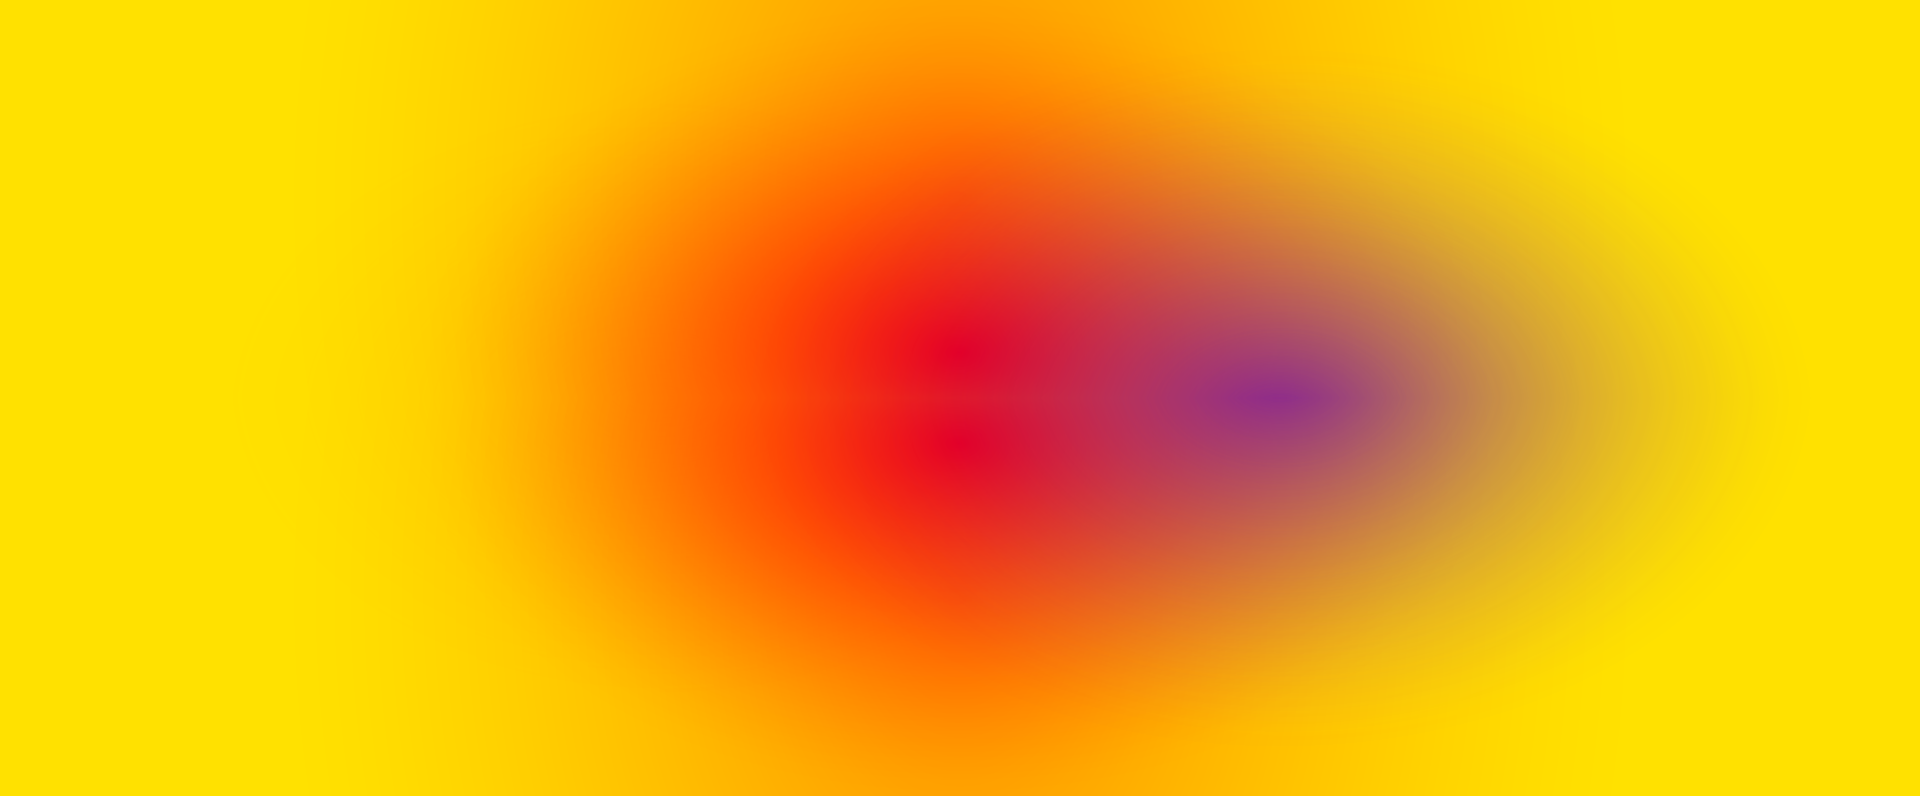
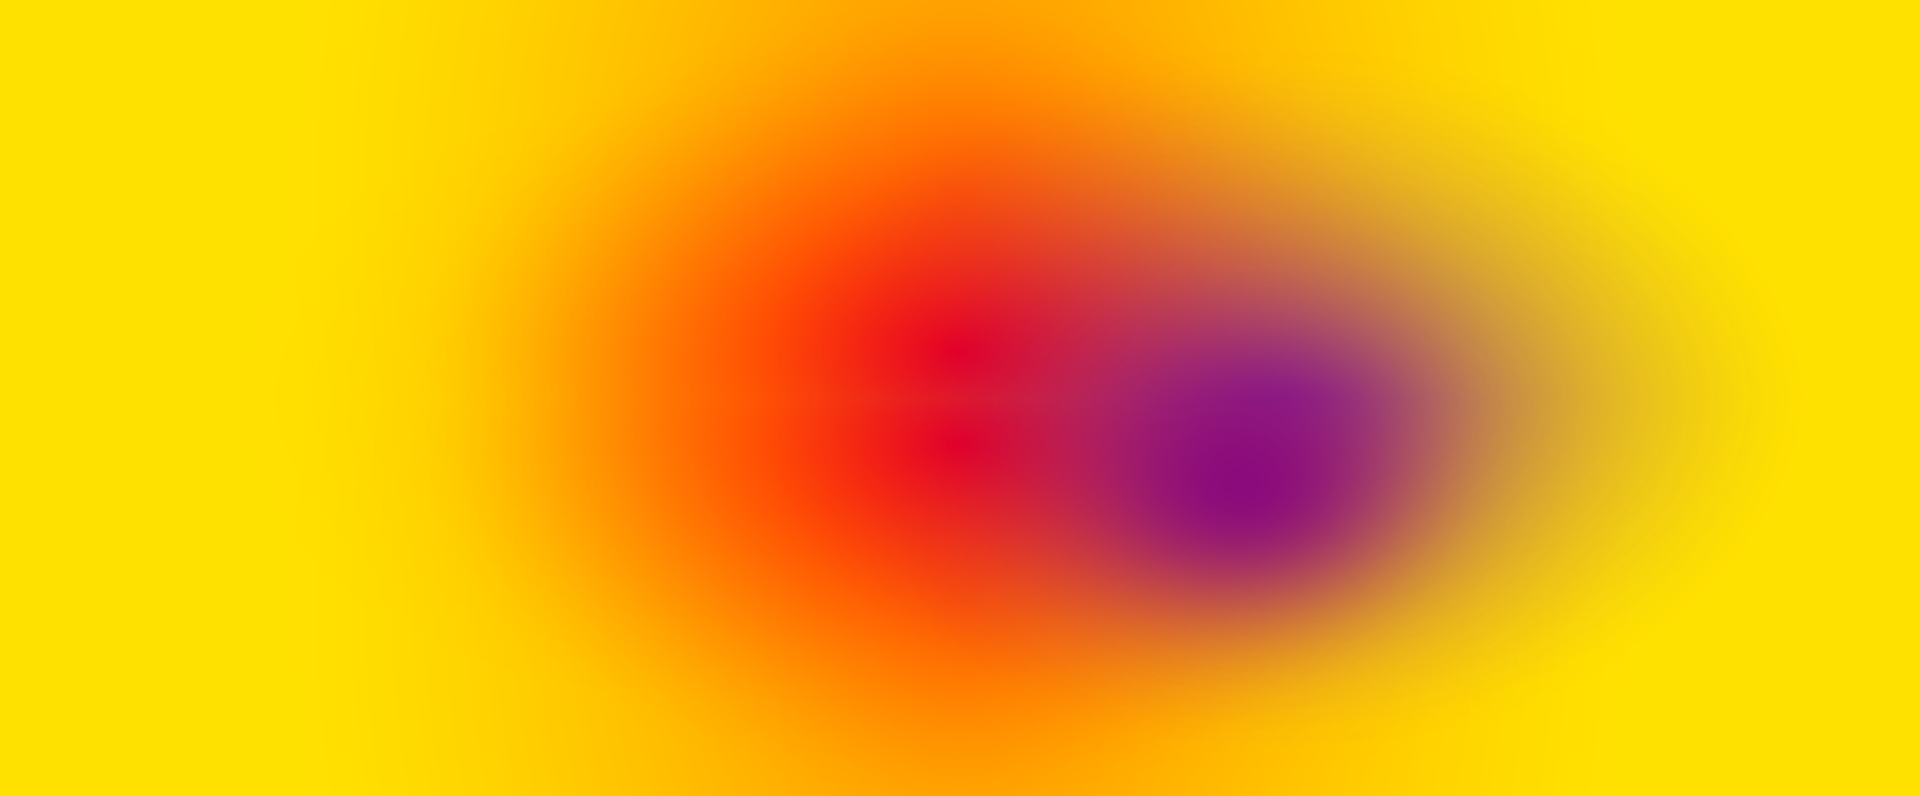
Some style  improvements

Changed region(s): [[0.5625, 0.4824, 0.7812, 0.8141]]

diff --git a/src/BCRM/WebBundle/Resources/public/css/styles.scss b/src/BCRM/WebBundle/Resources/public/css/styles.scss
@@ -428,11 +428,12 @@ blockquote {
   height: 50px;
   border: none;
   position: relative;
-  background-image: -moz-radial-gradient(rgb(255, 136, 0) 1%, rgb(255, 224, 0) 99%);
+  background-color: $link;
   background-image: -webkit-gradient(radial, color-stop(0.01, rgb(255, 136, 0)), color-stop(0.99, rgb(255, 224, 0)));
-  background-image: -webkit-radial-gradient(rgb(255, 136, 0) 1%, rgb(255, 224, 0) 99%);
-  background-image: -ms-radial-gradient(rgb(255, 136, 0) 1%, rgb(255, 224, 0) 99%);
-  background-image: radial-gradient(rgb(255, 136, 0) 1%, rgb(255, 224, 0) 99%);
+  background-image: -webkit-radial-gradient(farthest-corner at 100% 100%, rgb(255, 136, 0) 1%, rgb(255, 224, 0) 99%);
+  background-image: -moz-radial-gradient(farthest-corner at 100% 100%, rgb(255, 136, 0) 1%, rgb(255, 224, 0) 99%);
+  background-image: -ms-radial-gradient(farthest-corner at 100% 100%, rgb(255, 136, 0) 1%, rgb(255, 224, 0) 99%);
+  background-image: radial-gradient(farthest-corner at 100% 100%, rgb(255, 136, 0) 1%, rgb(255, 224, 0) 99%);
   -ms-filter: "progid:DXImageTransform.Microsoft.Alpha(Style=2)";
   filter: progid:DXImageTransform.Microsoft.Alpha(Style=2);
   width: 200px;
@@ -567,8 +568,9 @@ footer {
   background: $footer url('../images/bg_footer.png') no-repeat center top;
   h2 {
     color: $bg;
-    text-shadow: 1px 1px 2px #7F7F7F;
+    /*text-shadow: 1px 1px 2px #7F7F7F;*/
     font-size: 1em;
+    font-weight: 400;
   }
   .inner-wrap {
     width: 100%;
